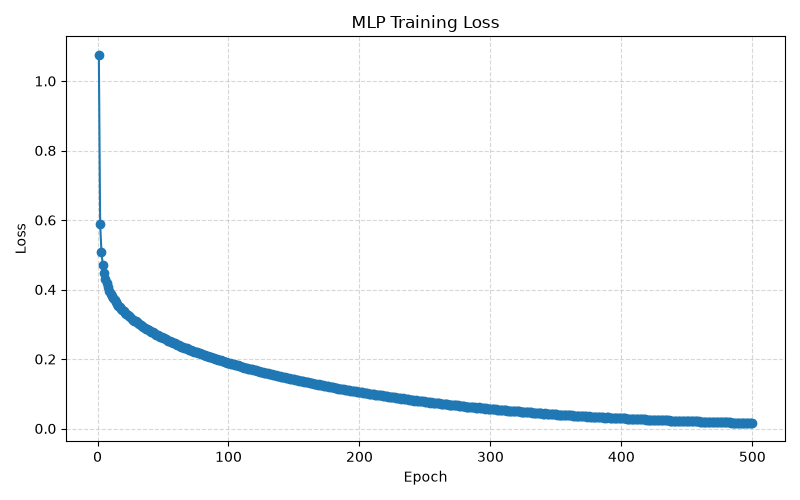
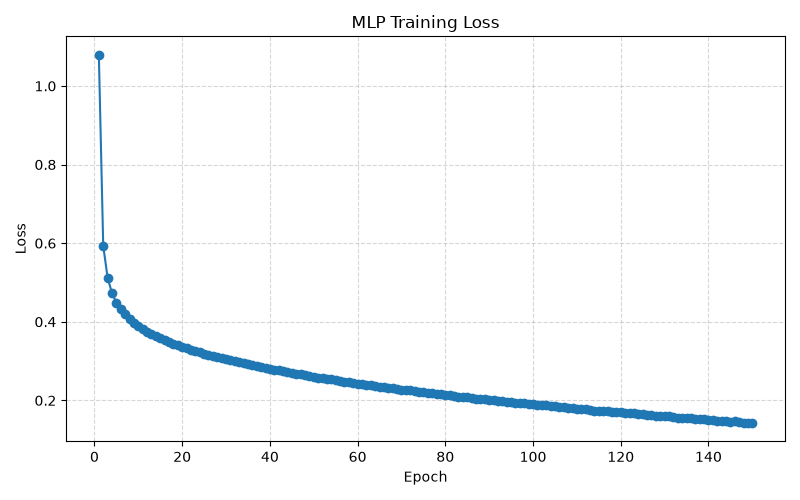
fixed cnn

diff --git a/cnn.py b/cnn.py
@@ -1,0 +1,209 @@
+import torch
+import time
+import matplotlib.pyplot as plt
+import math
+
+from data_loader import load_data
+
+# ===================== Utility Functions ===================== #
+def relu(x):
+    return torch.maximum(x, torch.zeros_like(x))
+
+def softmax(x):
+    x = x - torch.max(x, dim=1, keepdim=True)[0]
+    exp_x = torch.exp(x)
+    return exp_x / torch.sum(exp_x, dim=1, keepdim=True)
+
+# ===================== CNN Structure ===================== #
+class CNN:
+    def __init__(self, input_size, num_filters, kernel_size, fc_output_size, lr, device):
+        self.device = device
+        self.input_size = input_size
+        self.num_filters = num_filters
+        self.kernel_size = kernel_size
+        self.fc_output_size = fc_output_size
+        self.lr = lr
+
+        self.out_dim = input_size - kernel_size + 1
+        self.flatten_size = num_filters * self.out_dim**2
+        
+        # self.kernel = np.random.randn(num_filters, 1, kernel_size, kernel_size) * 0.01
+        self.kernel = torch.randn(num_filters, 1, kernel_size, kernel_size, device=device) * math.sqrt(2.0 / (kernel_size**2))
+        
+        # self.w2 = np.random.randn(fc_output_size, self.flatten_size) * 0.01
+        self.w2 = torch.randn(fc_output_size, self.flatten_size, device=device) * math.sqrt(2.0 / self.flatten_size)
+        self.b2 = torch.zeros((fc_output_size, 1), device=device) * 0.01
+
+        self.x_input = None
+        self.z1 = None
+        self.za = None
+        self.za2 = None
+        self.a1_flat = None
+
+    def forward(self, x):
+        """ Forward propagation """
+        batch_size = x.shape[0]
+        self.x_input = x
+        batch_size, channel, H, W = x.shape
+
+        z1 = torch.zeros(batch_size, self.num_filters, self.out_dim, self.out_dim, device=self.device)
+
+        # for b in range(batch_size):
+        #     for f in range(self.num_filters):
+        #         for h in range(self.out_dim):
+        #             for w in range(self.out_dim):
+        #                 # representing the slice where the kernel is, over each images 
+        #                 slice_matrix = x[b, 0, h: h+self.kernel_size, w: w+self.kernel_size]
+        #                 # sum of the slice * the kernel's weight
+        #                 # [f,0]: kernel is 4d, we specified the filter and channel 
+        #                 z1[b,f,h,w] = np.sum(slice_matrix * self.kernel[f,0])
+        for i in range(self.kernel_size):
+            for j in range(self.kernel_size):
+                slice_matrix = x[:, 0, i:i+self.out_dim, j:j+self.out_dim]
+
+                kernel_weight = self.kernel[:,0,i,j]
+
+                z1 += slice_matrix.unsqueeze(1) * kernel_weight.view(1, -1, 1, 1)
+
+
+        self.z1 = z1
+        a1 = relu(z1)
+        self.a1 = a1
+        # Flatten each image's convolutional feature maps.
+        a1_flat = a1.reshape(batch_size, self.flatten_size) 
+        self.a1_flat = a1_flat
+        z2 = torch.mm(a1_flat, self.w2.T) + self.b2.T
+        self.z2 = z2
+        outputs = softmax(z2) #y_hat
+
+        return outputs
+
+    def backward(self, y, pred):
+        """ Backward propagation """
+        # 1. one-hot encode the labels
+        batch_size = y.shape[0]
+        y_one_hot = torch.zeros(batch_size, self.fc_output_size, device=self.device)
+        y_one_hot[torch.arange(batch_size, device=self.device), y] = 1
+
+        # 2. Calculate softmax cross-entropy loss gradient
+        dz2 = pred - y_one_hot
+        dw2 = dz2.T @ self.a1_flat / batch_size
+        db2 = torch.sum(dz2, dim=0, keepdim=True).T / batch_size
+        # 3. Calculate fully connected layer gradient
+        dza_flat = dz2 @ self.w2
+
+        dza = dza_flat.reshape(batch_size, self.num_filters, self.out_dim, self.out_dim)
+        
+        # 4. Backpropagate through ReLU
+        dz1 = dza * (self.z1 > 0)
+        # 5. Calculate convolution kernel gradient
+        dw1 = torch.zeros_like(self.kernel, device=self.device)
+        # for b in range(batch_size):
+        #     for f in range(self.num_filters):
+        #         for h in range(self.out_dim):
+        #             for w in range(self.out_dim):
+        #                 slice_matrix = self.x_input[b, 0, h: h+self.kernel_size, w: w+self.kernel_size]
+        #                 dw1[f,0] += slice_matrix * dz1[b,f,h,w]
+        for i in range(self.kernel_size):
+            for j in range(self.kernel_size):
+                slice_matrix = self.x_input[:, 0, i:i+self.out_dim, j:j+self.out_dim]
+                dw1[:,0,i,j] = torch.sum(slice_matrix.unsqueeze(1) * dz1, dim=(0,2,3))
+        dw1 = dw1 / batch_size
+        # 6. Update parameters
+        self.kernel -= self.lr * dw1
+        self.w2 -= self.lr * dw2
+        self.b2 -= self.lr * db2
+        
+    @torch.no_grad()
+    def train(self, x, y):
+        # call forward function
+        outputs = self.forward(x)
+        # calculate loss
+        batch_size = outputs.shape[0]
+        correct_class_probs = outputs[torch.arange(batch_size, device=self.device), y]
+        loss = -torch.mean(torch.log(correct_class_probs.clamp(min=1e-10)))
+
+        # call backward function
+        self.backward(y, outputs)
+        return loss
+
+# ===================== Training Process ===================== #
+def main():
+    # First, load data
+    train_loader, test_loader = load_data()
+
+    device = torch.device("cuda" if torch.cuda.is_available() else "cpu") 
+    print(f"Using device: {device}")
+    if device.type == "cuda": print(f"GPU Name: {torch.cuda.get_device_name(0)}")
+    
+
+    # Second, define hyperparameters
+    input_size = 28
+    num_epochs = 10
+    num_filters = 8
+    kernel_size = 3
+    fc_output_size = 10
+    lr = 0.099
+    
+    model = CNN(input_size, num_filters, kernel_size, fc_output_size, lr, device)
+
+    # Then, train the model
+    if device.type == "cuda":
+        torch.cuda.synchronize()
+    start_time = time.time()
+    epoch_losses = []
+
+    for epoch in range(num_epochs):
+        total_loss = 0
+        for inputs, labels in train_loader:  # define training phase for training model
+            x = inputs.to(device)
+            y = labels.to(device)
+            loss = model.train(x, y)
+            total_loss += loss
+
+        avg_epoch_loss = (total_loss / len(train_loader)).item()
+        epoch_losses.append(avg_epoch_loss)
+        print(f"Epoch {epoch+1}/{num_epochs}, Loss: {avg_epoch_loss}") # print the loss for each epoch
+    
+    if device.type == "cuda":
+        torch.cuda.synchronize()
+    end_time = time.time()
+    training_time = end_time - start_time
+    print(f"Total training time: {training_time:.2f} seconds")
+    
+    if device.type == "cuda":
+        torch.cuda.synchronize()
+    eval_start_time = time.time()
+
+    correct_pred = 0
+    total_pred = 0
+    for inputs, labels in test_loader:
+        x = inputs.to(device)
+        y = labels.to(device)
+        pred = model.forward(x)  # the model refers to the model that was trained during the training phase
+        predicted_labels = torch.argmax(pred, 1)
+        correct_pred += (predicted_labels == y).sum().item()
+        total_pred += len(labels)
+        
+    if device.type == "cuda":
+        torch.cuda.synchronize()
+    eval_end_time = time.time()
+    eval_time = eval_end_time - eval_start_time
+
+    print(f"Test Accuracy: {correct_pred/total_pred}")
+    print(f"Total evaluation time: {eval_time:.2f} seconds")
+    total_elapsed_time = training_time + eval_time
+    print(f"Total time (training + evaluation): {total_elapsed_time:.2f} seconds")
+
+    plt.figure(figsize=(8, 5))
+    plt.plot(range(1, num_epochs + 1), epoch_losses, marker="o")
+    plt.title("CNN Training Loss")
+    plt.xlabel("Epoch")
+    plt.ylabel("Loss")
+    plt.grid(True, linestyle="--", alpha=0.5)
+    plt.tight_layout()
+    plt.savefig("cnn_training_loss.png")
+    plt.show()
+
+if __name__ == "__main__":
+    main()

diff --git a/mlp.py b/mlp.py
@@ -2,12 +2,11 @@ from binascii import a2b_base64
 from math import log
 from turtle import forward
 import numpy as np
-import torchvision
-import torchvision.transforms as transforms
-from torch.utils.data import DataLoader
 import time
 import matplotlib.pyplot as plt
 import torch
+
+from data_loader import load_data
 
 device = torch.device("cuda" if torch.cuda.is_available() else "cpu")
 
@@ -18,19 +17,6 @@ def softmax(x):  # define the softmax
     x = x - torch.max(x, axis=1, keepdims=True).values
     exp_x = torch.exp(x)
     return exp_x / torch.sum(exp_x, axis=1, keepdims=True)
-
-def dataloader(train_dataset, test_dataset, batch_size=128):
-    train_loader = DataLoader(dataset=train_dataset, batch_size=batch_size, shuffle=True)
-    test_loader = DataLoader(dataset=test_dataset, batch_size=batch_size, shuffle=False)
-    return train_loader, test_loader
-
-def load_data(batch_size):
-    transform = transforms.Compose([transforms.ToTensor()])
-    train_dataset = torchvision.datasets.FashionMNIST(root="./data/mnist", train=True, download=True, transform=transform)
-    test_dataset = torchvision.datasets.FashionMNIST(root="./data/mnist", train=False, download=True, transform=transform)
-    print("The number of training data:", len(train_dataset))
-    print("The number of testing data:", len(test_dataset))
-    return dataloader(train_dataset, test_dataset, batch_size)
 
 class MLP:
     def __init__(self, input_size, hidden_size, a, lr):  # 
@@ -121,8 +107,7 @@ def main():
 
     # Second, define hyperparameters
     input_size = 28*28  # MNIST images are 28x28 pixels
-    num_epochs = 500
-
+    num_epochs = 150
     hidden_layer_size = 192
     num_classes = 10
     learning_rate = 0.09943822786021822
@@ -199,5 +184,5 @@ def main():
     plt.show()
 
 
-if __name__ == "__main__":  # Program entry
+if __name__ == "__main__":
     main()  

diff --git a/data_loader.py b/data_loader.py
@@ -1,0 +1,28 @@
+"""Shared FashionMNIST data loading for the CNN and MLP."""
+
+import torchvision
+import torchvision.transforms as transforms
+from torch.utils.data import DataLoader
+
+
+def dataloader(train_dataset, test_dataset, batch_size=64):
+    """Create shuffled training batches and ordered test batches."""
+    train_loader = DataLoader(dataset=train_dataset, batch_size=batch_size, shuffle=True)
+    test_loader = DataLoader(dataset=test_dataset, batch_size=batch_size, shuffle=False)
+    return train_loader, test_loader
+
+
+def load_data(batch_size=64, root="./data/mnist", download=True):
+    """Return image batches shaped (N, 1, 28, 28) and integer labels.
+       The CNN uses the images directly; the MLP flattens them in its own loop.
+    """
+    transform = transforms.Compose([transforms.ToTensor()])
+    train_dataset = torchvision.datasets.FashionMNIST(
+        root=root, train=True, download=download, transform=transform
+    )
+    test_dataset = torchvision.datasets.FashionMNIST(
+        root=root, train=False, download=download, transform=transform
+    )
+    print("Training samples:", len(train_dataset))
+    print("Testing samples:", len(test_dataset))
+    return dataloader(train_dataset, test_dataset, batch_size)
